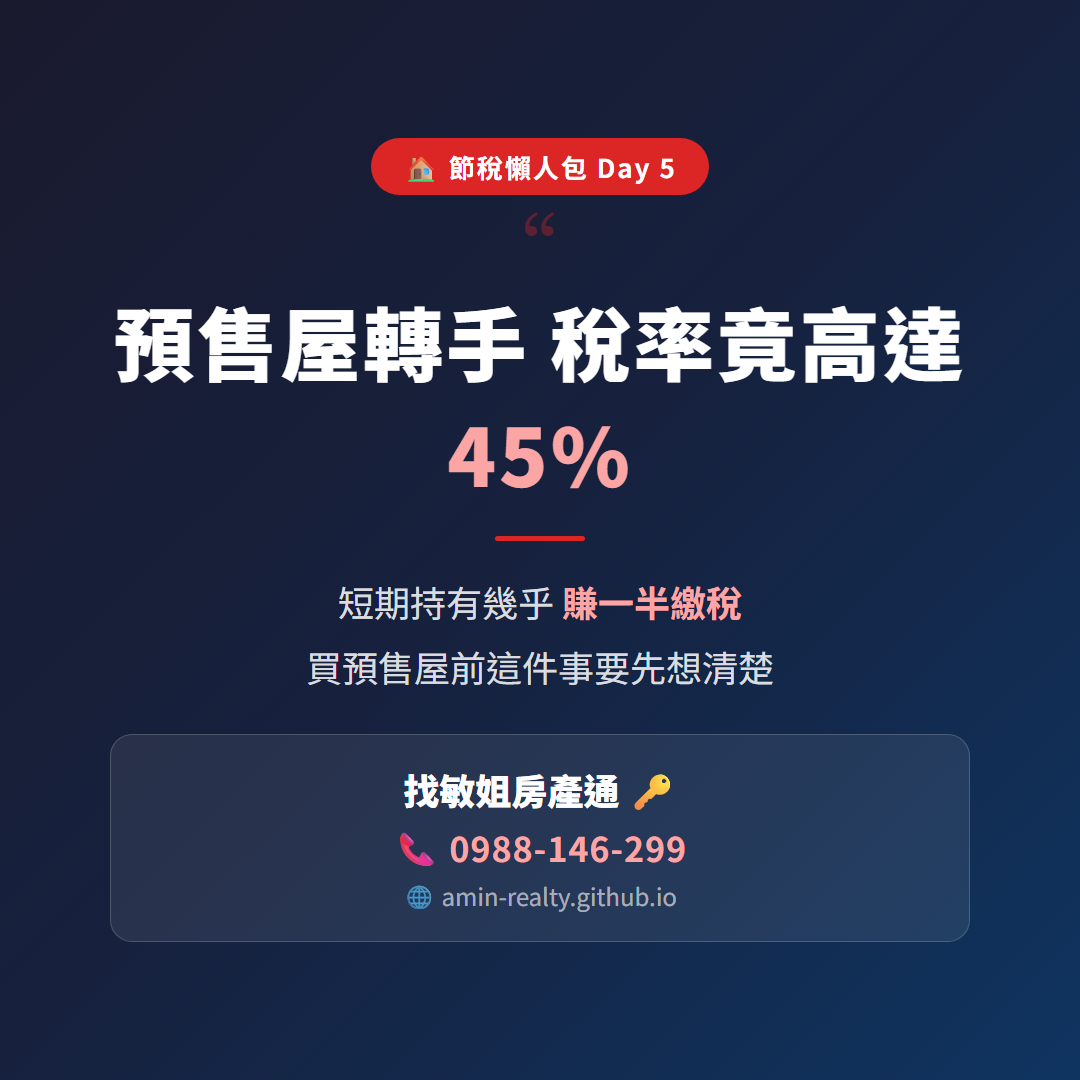
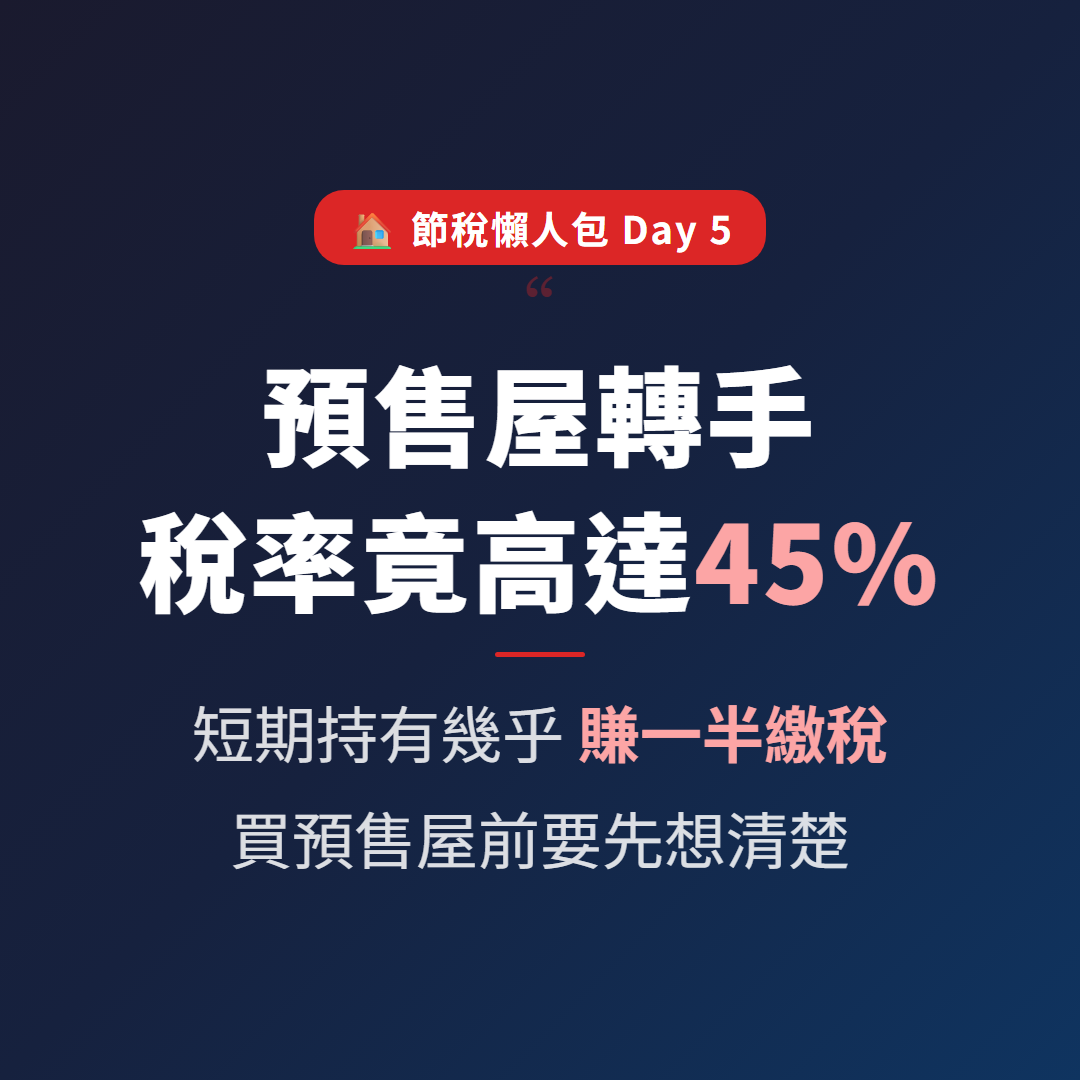
fix: revalidate=0 讓 meta description 即時讀 Notion 最新內容

Changed region(s): [[0.0917, 0.275, 0.8861, 0.8556], [0.275, 0.1222, 0.7333, 0.275]]

diff --git a/public/quote-day4.html b/public/quote-day4.html
@@ -14,40 +14,23 @@
   .wrap { width: 960px; text-align: center; color: white; padding: 40px 50px; }
   .tag {
     display: inline-block; background: #DC2626; color: white;
-    font-size: 26px; font-weight: 700; padding: 10px 32px;
-    border-radius: 30px; margin-bottom: 30px; letter-spacing: 2px;
+    font-size: 38px; font-weight: 700; padding: 10px 32px;
+    border-radius: 30px; margin-bottom: 24px; letter-spacing: 2px;
   }
-  .quote-mark { font-size: 90px; color: rgba(220,38,38,0.35); line-height: 0.5; margin-bottom: 14px; font-family: Georgia, serif; }
-  .quote { font-size: 80px; font-weight: 900; line-height: 1.4; color: #ffffff; margin-bottom: 28px; letter-spacing: 3px; }
+  .quote-mark { font-size: 80px; color: rgba(220,38,38,0.35); line-height: 0.5; margin-bottom: 10px; font-family: Georgia, serif; }
+  .quote { font-size: 108px; font-weight: 900; line-height: 1.35; color: #ffffff; margin-bottom: 22px; letter-spacing: 3px; }
   .quote span { color: #FCA5A5; }
-  .divider { width: 90px; height: 5px; background: #DC2626; margin: 0 auto 28px; border-radius: 3px; }
-  .sub { font-size: 36px; color: rgba(255,255,255,0.85); line-height: 1.8; margin-bottom: 36px; }
-  .agent-card {
-    display: flex; align-items: center; justify-content: center; gap: 28px;
-    background: rgba(255,255,255,0.08); border: 1.5px solid rgba(255,255,255,0.18);
-    border-radius: 22px; padding: 28px 50px;
-  }
-  .agent-info { text-align: center; }
-  .agent-name { font-size: 36px; font-weight: 900; color: #fff; margin-bottom: 8px; }
-  .agent-phone { font-size: 34px; font-weight: 700; color: #FCA5A5; margin-bottom: 6px; letter-spacing: 1px; }
-  .agent-link { font-size: 24px; color: rgba(255,255,255,0.6); }
+  .divider { width: 90px; height: 5px; background: #DC2626; margin: 0 auto 22px; border-radius: 3px; }
+  .sub { font-size: 62px; color: rgba(255,255,255,0.85); line-height: 1.7; margin-bottom: 0; }
 </style>
 </head>
 <body>
 <div class="wrap">
   <div class="tag">🏠 節稅懶人包 Day 4</div>
   <div class="quote-mark">&ldquo;</div>
-  <div class="quote">換屋已繳的稅
-竟然可以<span>全部退回</span></div>
+  <div class="quote">換屋已繳的稅<br>竟然可以<span>全部退回</span></div>
   <div class="divider"></div>
-  <div class="sub">重購退稅讓你換屋 <strong style="color:#86EFAC">零稅負</strong><br>很多人換完屋才知道有這個制度</div>
-  <div class="agent-card">
-    <div class="agent-info">
-      <div class="agent-name">找敏姐房產通 🔑</div>
-      <div class="agent-phone">📞 0988-146-299</div>
-      <div class="agent-link">🌐 amin-realty.github.io</div>
-    </div>
-  </div>
+  <div class="sub">重購退稅讓你換屋 <strong style="color:#86EFAC">零稅負</strong><br>很多人換完屋才知道</div>
 </div>
 </body>
 </html>

diff --git a/public/quote-day6.html b/public/quote-day6.html
@@ -14,41 +14,23 @@
   .wrap { width: 960px; text-align: center; color: white; padding: 40px 50px; }
   .tag {
     display: inline-block; background: #DC2626; color: white;
-    font-size: 26px; font-weight: 700; padding: 10px 32px;
-    border-radius: 30px; margin-bottom: 30px; letter-spacing: 2px;
+    font-size: 38px; font-weight: 700; padding: 10px 32px;
+    border-radius: 30px; margin-bottom: 24px; letter-spacing: 2px;
   }
-  .quote-mark { font-size: 90px; color: rgba(220,38,38,0.35); line-height: 0.5; margin-bottom: 14px; font-family: Georgia, serif; }
-  .quote { font-size: 80px; font-weight: 900; line-height: 1.4; color: #ffffff; margin-bottom: 28px; letter-spacing: 3px; }
+  .quote-mark { font-size: 80px; color: rgba(220,38,38,0.35); line-height: 0.5; margin-bottom: 10px; font-family: Georgia, serif; }
+  .quote { font-size: 108px; font-weight: 900; line-height: 1.35; color: #ffffff; margin-bottom: 22px; letter-spacing: 3px; }
   .quote span { color: #FCA5A5; }
-  .divider { width: 90px; height: 5px; background: #DC2626; margin: 0 auto 28px; border-radius: 3px; }
-  .sub { font-size: 36px; color: rgba(255,255,255,0.85); line-height: 1.8; margin-bottom: 36px; }
-  .agent-card {
-    display: flex; align-items: center; justify-content: center; gap: 28px;
-    background: rgba(255,255,255,0.08); border: 1.5px solid rgba(255,255,255,0.18);
-    border-radius: 22px; padding: 28px 50px;
-  }
-  .agent-info { text-align: center; }
-  .agent-name { font-size: 36px; font-weight: 900; color: #fff; margin-bottom: 8px; }
-  .agent-phone { font-size: 34px; font-weight: 700; color: #FCA5A5; margin-bottom: 6px; letter-spacing: 1px; }
-  .agent-link { font-size: 24px; color: rgba(255,255,255,0.6); }
+  .divider { width: 90px; height: 5px; background: #DC2626; margin: 0 auto 22px; border-radius: 3px; }
+  .sub { font-size: 62px; color: rgba(255,255,255,0.85); line-height: 1.7; margin-bottom: 0; }
 </style>
 </head>
 <body>
 <div class="wrap">
   <div class="tag">🏠 節稅懶人包 Day 6</div>
   <div class="quote-mark">&ldquo;</div>
-  <div class="quote">每年<span>244萬</span>
-合法贈與房產
-完全免稅</div>
+  <div class="quote">每年<span>244萬</span><br>合法贈與房產<br>完全免稅</div>
   <div class="divider"></div>
-  <div class="sub">分年贈與聰明規劃，<strong style="color:#86EFAC">贈與稅歸零</strong><br>傳承房產前必看</div>
-  <div class="agent-card">
-    <div class="agent-info">
-      <div class="agent-name">找敏姐房產通 🔑</div>
-      <div class="agent-phone">📞 0988-146-299</div>
-      <div class="agent-link">🌐 amin-realty.github.io</div>
-    </div>
-  </div>
+  <div class="sub">分年贈與聰明規劃<br><strong style="color:#86EFAC">贈與稅歸零</strong>，傳承房產前必看</div>
 </div>
 </body>
 </html>

diff --git a/public/quote-day5.html b/public/quote-day5.html
@@ -14,40 +14,23 @@
   .wrap { width: 960px; text-align: center; color: white; padding: 40px 50px; }
   .tag {
     display: inline-block; background: #DC2626; color: white;
-    font-size: 26px; font-weight: 700; padding: 10px 32px;
-    border-radius: 30px; margin-bottom: 30px; letter-spacing: 2px;
+    font-size: 38px; font-weight: 700; padding: 10px 32px;
+    border-radius: 30px; margin-bottom: 24px; letter-spacing: 2px;
   }
-  .quote-mark { font-size: 90px; color: rgba(220,38,38,0.35); line-height: 0.5; margin-bottom: 14px; font-family: Georgia, serif; }
-  .quote { font-size: 80px; font-weight: 900; line-height: 1.4; color: #ffffff; margin-bottom: 28px; letter-spacing: 3px; }
+  .quote-mark { font-size: 80px; color: rgba(220,38,38,0.35); line-height: 0.5; margin-bottom: 10px; font-family: Georgia, serif; }
+  .quote { font-size: 108px; font-weight: 900; line-height: 1.35; color: #ffffff; margin-bottom: 22px; letter-spacing: 3px; }
   .quote span { color: #FCA5A5; }
-  .divider { width: 90px; height: 5px; background: #DC2626; margin: 0 auto 28px; border-radius: 3px; }
-  .sub { font-size: 36px; color: rgba(255,255,255,0.85); line-height: 1.8; margin-bottom: 36px; }
-  .agent-card {
-    display: flex; align-items: center; justify-content: center; gap: 28px;
-    background: rgba(255,255,255,0.08); border: 1.5px solid rgba(255,255,255,0.18);
-    border-radius: 22px; padding: 28px 50px;
-  }
-  .agent-info { text-align: center; }
-  .agent-name { font-size: 36px; font-weight: 900; color: #fff; margin-bottom: 8px; }
-  .agent-phone { font-size: 34px; font-weight: 700; color: #FCA5A5; margin-bottom: 6px; letter-spacing: 1px; }
-  .agent-link { font-size: 24px; color: rgba(255,255,255,0.6); }
+  .divider { width: 90px; height: 5px; background: #DC2626; margin: 0 auto 22px; border-radius: 3px; }
+  .sub { font-size: 62px; color: rgba(255,255,255,0.85); line-height: 1.7; margin-bottom: 0; }
 </style>
 </head>
 <body>
 <div class="wrap">
   <div class="tag">🏠 節稅懶人包 Day 5</div>
   <div class="quote-mark">&ldquo;</div>
-  <div class="quote">預售屋轉手
-稅率竟高達<span>45%</span></div>
+  <div class="quote">預售屋轉手<br>稅率竟高達<span>45%</span></div>
   <div class="divider"></div>
-  <div class="sub">短期持有幾乎 <strong style="color:#FCA5A5">賺一半繳稅</strong><br>買預售屋前這件事要先想清楚</div>
-  <div class="agent-card">
-    <div class="agent-info">
-      <div class="agent-name">找敏姐房產通 🔑</div>
-      <div class="agent-phone">📞 0988-146-299</div>
-      <div class="agent-link">🌐 amin-realty.github.io</div>
-    </div>
-  </div>
+  <div class="sub">短期持有幾乎 <strong style="color:#FCA5A5">賺一半繳稅</strong><br>買預售屋前要先想清楚</div>
 </div>
 </body>
 </html>

diff --git a/public/quote-day8.html b/public/quote-day8.html
@@ -14,41 +14,23 @@
   .wrap { width: 960px; text-align: center; color: white; padding: 40px 50px; }
   .tag {
     display: inline-block; background: #DC2626; color: white;
-    font-size: 26px; font-weight: 700; padding: 10px 32px;
-    border-radius: 30px; margin-bottom: 30px; letter-spacing: 2px;
+    font-size: 38px; font-weight: 700; padding: 10px 32px;
+    border-radius: 30px; margin-bottom: 24px; letter-spacing: 2px;
   }
-  .quote-mark { font-size: 90px; color: rgba(220,38,38,0.35); line-height: 0.5; margin-bottom: 14px; font-family: Georgia, serif; }
-  .quote { font-size: 80px; font-weight: 900; line-height: 1.4; color: #ffffff; margin-bottom: 28px; letter-spacing: 3px; }
+  .quote-mark { font-size: 80px; color: rgba(220,38,38,0.35); line-height: 0.5; margin-bottom: 10px; font-family: Georgia, serif; }
+  .quote { font-size: 108px; font-weight: 900; line-height: 1.35; color: #ffffff; margin-bottom: 22px; letter-spacing: 3px; }
   .quote span { color: #FCA5A5; }
-  .divider { width: 90px; height: 5px; background: #DC2626; margin: 0 auto 28px; border-radius: 3px; }
-  .sub { font-size: 36px; color: rgba(255,255,255,0.85); line-height: 1.8; margin-bottom: 36px; }
-  .agent-card {
-    display: flex; align-items: center; justify-content: center; gap: 28px;
-    background: rgba(255,255,255,0.08); border: 1.5px solid rgba(255,255,255,0.18);
-    border-radius: 22px; padding: 28px 50px;
-  }
-  .agent-info { text-align: center; }
-  .agent-name { font-size: 36px; font-weight: 900; color: #fff; margin-bottom: 8px; }
-  .agent-phone { font-size: 34px; font-weight: 700; color: #FCA5A5; margin-bottom: 6px; letter-spacing: 1px; }
-  .agent-link { font-size: 24px; color: rgba(255,255,255,0.6); }
+  .divider { width: 90px; height: 5px; background: #DC2626; margin: 0 auto 22px; border-radius: 3px; }
+  .sub { font-size: 62px; color: rgba(255,255,255,0.85); line-height: 1.7; margin-bottom: 0; }
 </style>
 </head>
 <body>
 <div class="wrap">
   <div class="tag">🏠 節稅懶人包 Day 8</div>
   <div class="quote-mark">&ldquo;</div>
-  <div class="quote">這<span>5個錯誤</span>
-讓你多繳
-幾十萬稅金</div>
+  <div class="quote">這<span>5個錯誤</span><br>讓你多繳<br>幾十萬稅金</div>
   <div class="divider"></div>
   <div class="sub">節稅懶人包總結篇<br>避開這些坑，<strong style="color:#86EFAC">合法省到最大</strong></div>
-  <div class="agent-card">
-    <div class="agent-info">
-      <div class="agent-name">找敏姐房產通 🔑</div>
-      <div class="agent-phone">📞 0988-146-299</div>
-      <div class="agent-link">🌐 amin-realty.github.io</div>
-    </div>
-  </div>
 </div>
 </body>
 </html>

diff --git a/public/quote-day7.html b/public/quote-day7.html
@@ -14,40 +14,23 @@
   .wrap { width: 960px; text-align: center; color: white; padding: 40px 50px; }
   .tag {
     display: inline-block; background: #DC2626; color: white;
-    font-size: 26px; font-weight: 700; padding: 10px 32px;
-    border-radius: 30px; margin-bottom: 30px; letter-spacing: 2px;
+    font-size: 38px; font-weight: 700; padding: 10px 32px;
+    border-radius: 30px; margin-bottom: 24px; letter-spacing: 2px;
   }
-  .quote-mark { font-size: 90px; color: rgba(220,38,38,0.35); line-height: 0.5; margin-bottom: 14px; font-family: Georgia, serif; }
-  .quote { font-size: 80px; font-weight: 900; line-height: 1.4; color: #ffffff; margin-bottom: 28px; letter-spacing: 3px; }
+  .quote-mark { font-size: 80px; color: rgba(220,38,38,0.35); line-height: 0.5; margin-bottom: 10px; font-family: Georgia, serif; }
+  .quote { font-size: 108px; font-weight: 900; line-height: 1.35; color: #ffffff; margin-bottom: 22px; letter-spacing: 3px; }
   .quote span { color: #FCA5A5; }
-  .divider { width: 90px; height: 5px; background: #DC2626; margin: 0 auto 28px; border-radius: 3px; }
-  .sub { font-size: 36px; color: rgba(255,255,255,0.85); line-height: 1.8; margin-bottom: 36px; }
-  .agent-card {
-    display: flex; align-items: center; justify-content: center; gap: 28px;
-    background: rgba(255,255,255,0.08); border: 1.5px solid rgba(255,255,255,0.18);
-    border-radius: 22px; padding: 28px 50px;
-  }
-  .agent-info { text-align: center; }
-  .agent-name { font-size: 36px; font-weight: 900; color: #fff; margin-bottom: 8px; }
-  .agent-phone { font-size: 34px; font-weight: 700; color: #FCA5A5; margin-bottom: 6px; letter-spacing: 1px; }
-  .agent-link { font-size: 24px; color: rgba(255,255,255,0.6); }
+  .divider { width: 90px; height: 5px; background: #DC2626; margin: 0 auto 22px; border-radius: 3px; }
+  .sub { font-size: 62px; color: rgba(255,255,255,0.85); line-height: 1.7; margin-bottom: 0; }
 </style>
 </head>
 <body>
 <div class="wrap">
   <div class="tag">🏠 節稅懶人包 Day 7</div>
   <div class="quote-mark">&ldquo;</div>
-  <div class="quote">繼承房產
-土地增值稅<span>完全免徵</span></div>
+  <div class="quote">繼承房產<br>土地增值稅<span>完全免徵</span></div>
   <div class="divider"></div>
   <div class="sub">遺產稅免稅額高達 <strong style="color:#86EFAC">1,333萬</strong><br>繼承流程一次搞懂</div>
-  <div class="agent-card">
-    <div class="agent-info">
-      <div class="agent-name">找敏姐房產通 🔑</div>
-      <div class="agent-phone">📞 0988-146-299</div>
-      <div class="agent-link">🌐 amin-realty.github.io</div>
-    </div>
-  </div>
 </div>
 </body>
 </html>

diff --git a/public/quote-day3.html b/public/quote-day3.html
@@ -56,34 +56,7 @@
     line-height: 1.8;
     margin-bottom: 32px;
   }
-  .agent-card {
-    display: flex;
-    align-items: center;
-    justify-content: center;
-    gap: 28px;
-    background: rgba(255,255,255,0.08);
-    border: 1.5px solid rgba(255,255,255,0.18);
-    border-radius: 22px;
-    padding: 28px 50px;
-  }
-  .agent-info { text-align: center; }
-  .agent-name {
-    font-size: 34px;
-    font-weight: 900;
-    color: #fff;
-    margin-bottom: 6px;
-  }
-  .agent-phone {
-    font-size: 32px;
-    font-weight: 700;
-    color: #FCA5A5;
-    margin-bottom: 6px;
-    letter-spacing: 1px;
-  }
-  .agent-link {
-    font-size: 22px;
-    color: rgba(255,255,255,0.6);
-  }
+  .agent-card { display: none; }
 </style>
 </head>
 <body>
@@ -98,13 +71,6 @@
   <div class="sub">
     持有未滿2年稅率高達 <strong style="color:#FCA5A5">45%</strong><br>
     自住滿6年，400萬內 <strong style="color:#86EFAC">全額免稅</strong>
-  </div>
-  <div class="agent-card">
-    <div class="agent-info">
-      <div class="agent-name">找敏姐房產通 🔑</div>
-      <div class="agent-phone">📞 0988-146-299</div>
-      <div class="agent-link">🌐 amin-realty.github.io</div>
-    </div>
   </div>
 </div>
 </body>

diff --git a/app/blog/[slug]/page.tsx b/app/blog/[slug]/page.tsx
@@ -2,7 +2,7 @@ import { getPostBySlug, getAllPosts, blocksToHtml } from '@/lib/notion'
 import { notFound } from 'next/navigation'
 import type { Metadata } from 'next'
 
-export const revalidate = 3600
+export const revalidate = 0
 
 export async function generateStaticParams() {
   const posts = await getAllPosts()
